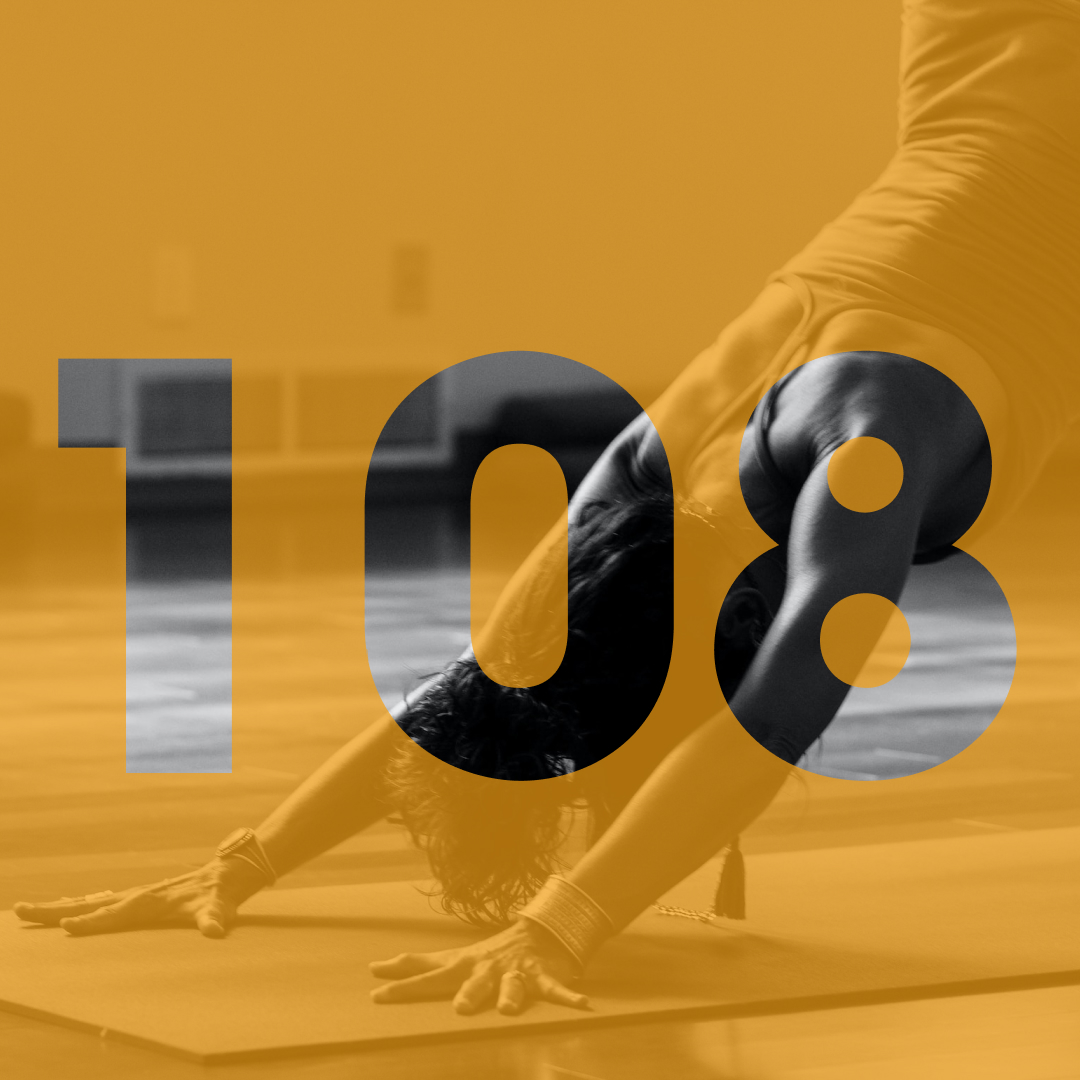
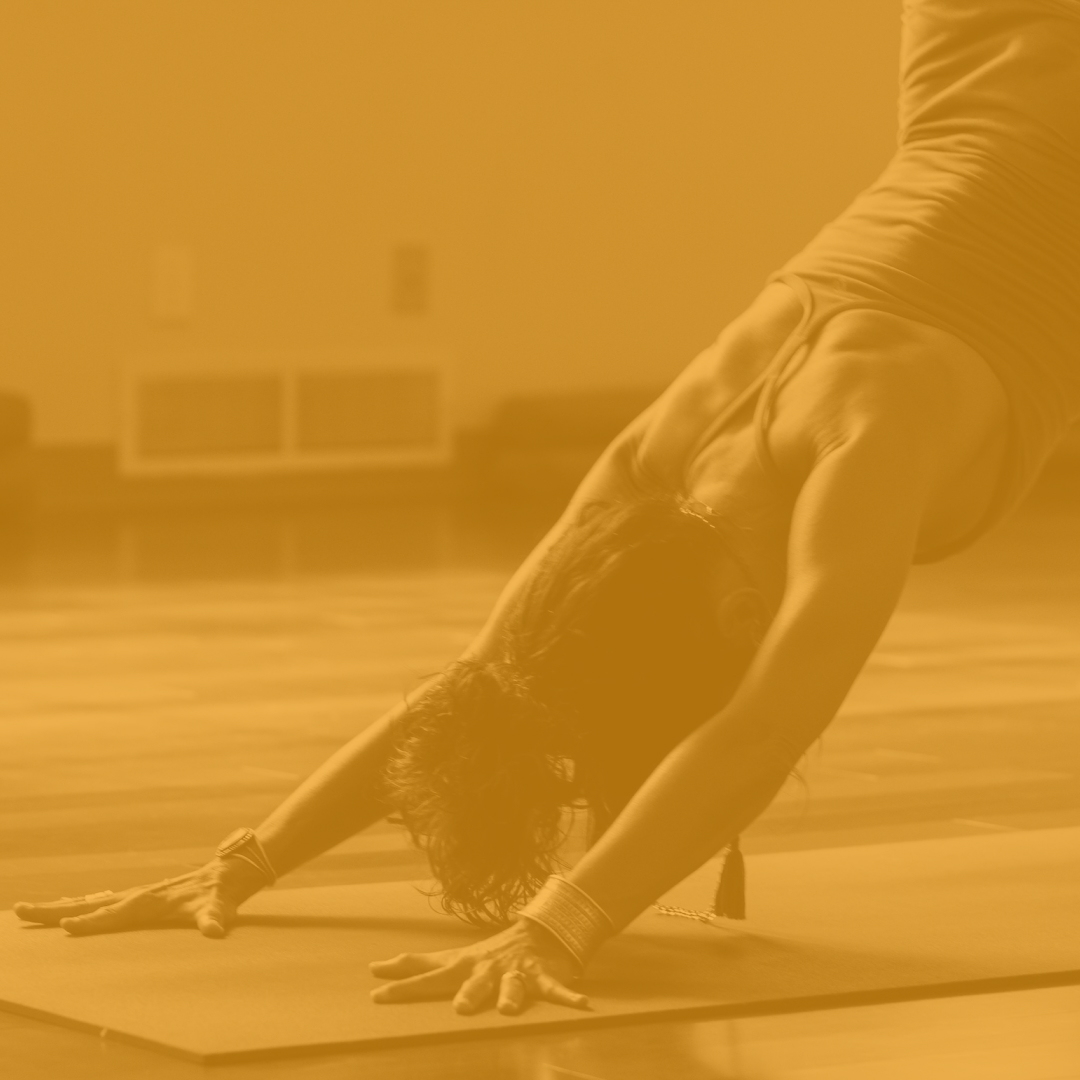
108 page link and button

Changed region(s): [[0.3361, 0.3056, 0.9472, 0.7333], [0.0306, 0.3056, 0.2139, 0.7333]]

diff --git a/src/pages/108-napudvozlet.js b/src/pages/108-napudvozlet.js
@@ -3,6 +3,7 @@ import Layout from "../components/Layouts/Layout"
 import Seo from "../components/seo"
 import { CustomLink } from "../components/CustomLink"
 import { StaticImage } from "gatsby-plugin-image"
+import Button from "../components/Buttons/Button"
 import "../sass/pages/_szaznyolc.scss"
 
 export default function Szaznyolc() {
@@ -122,9 +123,27 @@ export default function Szaznyolc() {
                 classNames="body link-decoration-remove schedule-teacher"
               />{" "}
               <br />
+              <div className="separator-horizontal mt-20px"></div>A résztvevők
+              száma sajnos korlátozott. Összesen 23-an tudnak részt venni az
+              eseményen, 15-en a nagyteremben, 8-an a kisteremben. Érkezz
+              minimum 15 perccel kezdés előtt.
               <div className="separator-horizontal mt-20px"></div>
-              Az eseményen 23-an tudnak részt venni, 15-en a nagyteremben, 8-an
-              a kisteremben. Érkezz minimum 15 perccel kezdés előtt.
+              <p className="mb-20px">
+                A programra a részvételi díj kiegyenlítésével tudsz jelentkezni.
+              </p>
+              <Button
+                type="button"
+                buttonStyle="btn--primary--solid"
+                onClick={() => {
+                  window.open(
+                    "https://shop.bandha.works/products/ujevi-108-napudvozlet?_pos=1&_psq=108&_ss=e&_v=1.0",
+                    "_blank",
+                    "noopener,noreferrer"
+                  )
+                }}
+              >
+                Jelentkezem
+              </Button>
             </p>
           </div>
         </div>
